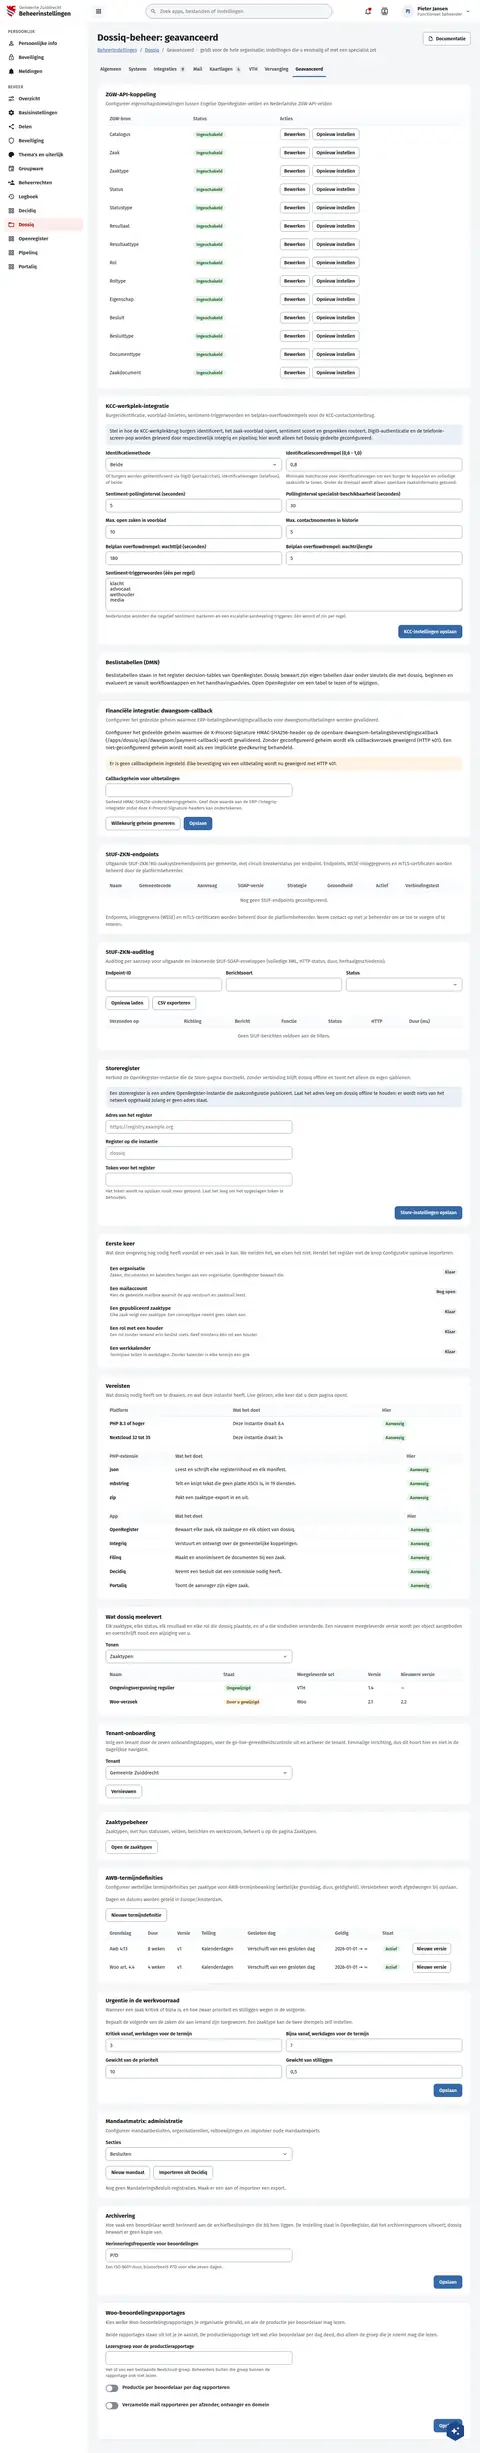
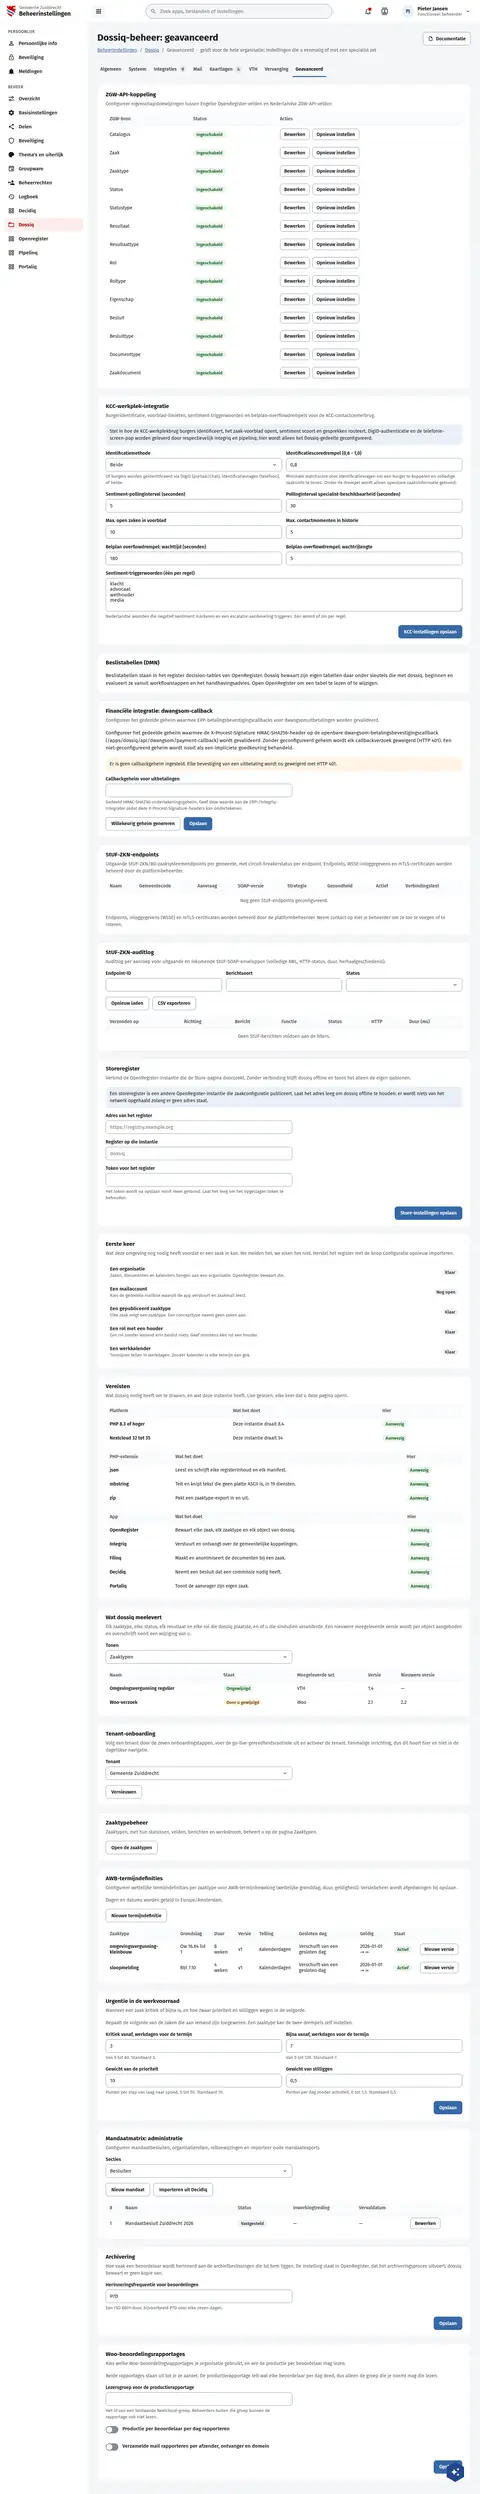
fix(screens): DqBeheerGeavanceerd draws the mandate rows, Urgentie hints and the AWB case type live shows
Assisted-by: ClaudeCode:claude-opus-5-5

diff --git a/preview/screens/boards/DqBeheerGeavanceerd.html b/preview/screens/boards/DqBeheerGeavanceerd.html
@@ -915,7 +915,7 @@ media</textarea><span style="font-size: 13px; color: var(--sc-work-muted, #5e616
                 
                 
                 
-                  <div style="overflow-x: auto"><table style="width: 100%; border-collapse: collapse; font-size: 14px"><thead><tr><th scope="col" style="text-align: left; padding: 10px 12px; font-weight: 600; color: var(--sc-work-muted, #5e6168); background: #fafbfc; border-bottom: 1px solid var(--sc-work-line, #e4e6ea); white-space: nowrap">Grondslag</th><th scope="col" style="text-align: left; padding: 10px 12px; font-weight: 600; color: var(--sc-work-muted, #5e6168); background: #fafbfc; border-bottom: 1px solid var(--sc-work-line, #e4e6ea); white-space: nowrap">Duur</th><th scope="col" style="text-align: left; padding: 10px 12px; font-weight: 600; color: var(--sc-work-muted, #5e6168); background: #fafbfc; border-bottom: 1px solid var(--sc-work-line, #e4e6ea); white-space: nowrap">Versie</th><th scope="col" style="text-align: left; padding: 10px 12px; font-weight: 600; color: var(--sc-work-muted, #5e6168); background: #fafbfc; border-bottom: 1px solid var(--sc-work-line, #e4e6ea); white-space: nowrap">Telling</th><th scope="col" style="text-align: left; padding: 10px 12px; font-weight: 600; color: var(--sc-work-muted, #5e6168); background: #fafbfc; border-bottom: 1px solid var(--sc-work-line, #e4e6ea); white-space: nowrap">Gesloten dag</th><th scope="col" style="text-align: left; padding: 10px 12px; font-weight: 600; color: var(--sc-work-muted, #5e6168); background: #fafbfc; border-bottom: 1px solid var(--sc-work-line, #e4e6ea); white-space: nowrap">Geldig</th><th scope="col" style="text-align: left; padding: 10px 12px; font-weight: 600; color: var(--sc-work-muted, #5e6168); background: #fafbfc; border-bottom: 1px solid var(--sc-work-line, #e4e6ea); white-space: nowrap">Staat</th><th scope="col" style="text-align: left; padding: 10px 12px; font-weight: 600; color: var(--sc-work-muted, #5e6168); background: #fafbfc; border-bottom: 1px solid var(--sc-work-line, #e4e6ea); white-space: nowrap"></th></tr></thead><tbody><tr><td style="padding: 10px 12px; border-bottom: 1px solid var(--sc-work-soft, #eef0f3); vertical-align: middle"><span style="">Awb 4:13</span></td><td style="padding: 10px 12px; border-bottom: 1px solid var(--sc-work-soft, #eef0f3); vertical-align: middle"><span style="">8 weken</span></td><td style="padding: 10px 12px; border-bottom: 1px solid var(--sc-work-soft, #eef0f3); vertical-align: middle"><span style="">v1</span></td><td style="padding: 10px 12px; border-bottom: 1px solid var(--sc-work-soft, #eef0f3); vertical-align: middle"><span style="">Kalenderdagen</span></td><td style="padding: 10px 12px; border-bottom: 1px solid var(--sc-work-soft, #eef0f3); vertical-align: middle"><span style="">Verschuift van een gesloten dag</span></td><td style="padding: 10px 12px; border-bottom: 1px solid var(--sc-work-soft, #eef0f3); vertical-align: middle"><span style="">2026-01-01 → ∞</span></td><td style="padding: 10px 12px; border-bottom: 1px solid var(--sc-work-soft, #eef0f3); vertical-align: middle"><span style="display: inline-block; padding: 3px 10px; border-radius: 12px; font-size: 13px; font-weight: 600; white-space: nowrap; background: #e7f3ea; color: #1e6b2a">Actief</span></td><td style="padding: 10px 12px; border-bottom: 1px solid var(--sc-work-soft, #eef0f3); vertical-align: middle"><span style="display: inline-flex; gap: 8px"><button type="button" style="display: inline-flex; align-items: center; height: 34px; box-sizing: border-box; padding: 0 12px; border-radius: 8px; font: 600 14px var(--sc-font, 'Fira Sans'), sans-serif; white-space: nowrap; border: 1px solid var(--sc-work-field, #828a95); background: #ffffff; color: var(--sc-work-ink, #1b1c1d)">Nieuwe versie</button></span></td></tr><tr><td style="padding: 10px 12px; border-bottom: 1px solid var(--sc-work-soft, #eef0f3); vertical-align: middle"><span style="">Woo art. 4.4</span></td><td style="padding: 10px 12px; border-bottom: 1px solid var(--sc-work-soft, #eef0f3); vertical-align: middle"><span style="">4 weken</span></td><td style="padding: 10px 12px; border-bottom: 1px solid var(--sc-work-soft, #eef0f3); vertical-align: middle"><span style="">v1</span></td><td style="padding: 10px 12px; border-bottom: 1px solid var(--sc-work-soft, #eef0f3); vertical-align: middle"><span style="">Kalenderdagen</span></td><td style="padding: 10px 12px; border-bottom: 1px solid var(--sc-work-soft, #eef0f3); vertical-align: middle"><span style="">Verschuift van een gesloten dag</span></td><td style="padding: 10px 12px; border-bottom: 1px solid var(--sc-work-soft, #eef0f3); vertical-align: middle"><span style="">2026-01-01 → ∞</span></td><td style="padding: 10px 12px; border-bottom: 1px solid var(--sc-work-soft, #eef0f3); vertical-align: middle"><span style="display: inline-block; padding: 3px 10px; border-radius: 12px; font-size: 13px; font-weight: 600; white-space: nowrap; background: #e7f3ea; color: #1e6b2a">Actief</span></td><td style="padding: 10px 12px; border-bottom: 1px solid var(--sc-work-soft, #eef0f3); vertical-align: middle"><span style="display: inline-flex; gap: 8px"><button type="button" style="display: inline-flex; align-items: center; height: 34px; box-sizing: border-box; padding: 0 12px; border-radius: 8px; font: 600 14px var(--sc-font, 'Fira Sans'), sans-serif; white-space: nowrap; border: 1px solid var(--sc-work-field, #828a95); background: #ffffff; color: var(--sc-work-ink, #1b1c1d)">Nieuwe versie</button></span></td></tr></tbody></table></div>
+                  <div style="overflow-x: auto"><table style="width: 100%; border-collapse: collapse; font-size: 14px"><thead><tr><th scope="col" style="text-align: left; padding: 10px 12px; font-weight: 600; color: var(--sc-work-muted, #5e6168); background: #fafbfc; border-bottom: 1px solid var(--sc-work-line, #e4e6ea); white-space: nowrap">Zaaktype</th><th scope="col" style="text-align: left; padding: 10px 12px; font-weight: 600; color: var(--sc-work-muted, #5e6168); background: #fafbfc; border-bottom: 1px solid var(--sc-work-line, #e4e6ea); white-space: nowrap">Grondslag</th><th scope="col" style="text-align: left; padding: 10px 12px; font-weight: 600; color: var(--sc-work-muted, #5e6168); background: #fafbfc; border-bottom: 1px solid var(--sc-work-line, #e4e6ea); white-space: nowrap">Duur</th><th scope="col" style="text-align: left; padding: 10px 12px; font-weight: 600; color: var(--sc-work-muted, #5e6168); background: #fafbfc; border-bottom: 1px solid var(--sc-work-line, #e4e6ea); white-space: nowrap">Versie</th><th scope="col" style="text-align: left; padding: 10px 12px; font-weight: 600; color: var(--sc-work-muted, #5e6168); background: #fafbfc; border-bottom: 1px solid var(--sc-work-line, #e4e6ea); white-space: nowrap">Telling</th><th scope="col" style="text-align: left; padding: 10px 12px; font-weight: 600; color: var(--sc-work-muted, #5e6168); background: #fafbfc; border-bottom: 1px solid var(--sc-work-line, #e4e6ea); white-space: nowrap">Gesloten dag</th><th scope="col" style="text-align: left; padding: 10px 12px; font-weight: 600; color: var(--sc-work-muted, #5e6168); background: #fafbfc; border-bottom: 1px solid var(--sc-work-line, #e4e6ea); white-space: nowrap">Geldig</th><th scope="col" style="text-align: left; padding: 10px 12px; font-weight: 600; color: var(--sc-work-muted, #5e6168); background: #fafbfc; border-bottom: 1px solid var(--sc-work-line, #e4e6ea); white-space: nowrap">Staat</th><th scope="col" style="text-align: left; padding: 10px 12px; font-weight: 600; color: var(--sc-work-muted, #5e6168); background: #fafbfc; border-bottom: 1px solid var(--sc-work-line, #e4e6ea); white-space: nowrap"></th></tr></thead><tbody><tr><td style="padding: 10px 12px; border-bottom: 1px solid var(--sc-work-soft, #eef0f3); vertical-align: middle"><span style="font-weight: 600">omgevingsvergunning-kleinbouw</span></td><td style="padding: 10px 12px; border-bottom: 1px solid var(--sc-work-soft, #eef0f3); vertical-align: middle"><span style="">Ow 16.64 lid 1</span></td><td style="padding: 10px 12px; border-bottom: 1px solid var(--sc-work-soft, #eef0f3); vertical-align: middle"><span style="">8 weken</span></td><td style="padding: 10px 12px; border-bottom: 1px solid var(--sc-work-soft, #eef0f3); vertical-align: middle"><span style="">v1</span></td><td style="padding: 10px 12px; border-bottom: 1px solid var(--sc-work-soft, #eef0f3); vertical-align: middle"><span style="">Kalenderdagen</span></td><td style="padding: 10px 12px; border-bottom: 1px solid var(--sc-work-soft, #eef0f3); vertical-align: middle"><span style="">Verschuift van een gesloten dag</span></td><td style="padding: 10px 12px; border-bottom: 1px solid var(--sc-work-soft, #eef0f3); vertical-align: middle"><span style="">2026-01-01 → ∞</span></td><td style="padding: 10px 12px; border-bottom: 1px solid var(--sc-work-soft, #eef0f3); vertical-align: middle"><span style="display: inline-block; padding: 3px 10px; border-radius: 12px; font-size: 13px; font-weight: 600; white-space: nowrap; background: #e7f3ea; color: #1e6b2a">Actief</span></td><td style="padding: 10px 12px; border-bottom: 1px solid var(--sc-work-soft, #eef0f3); vertical-align: middle"><span style="display: inline-flex; gap: 8px"><button type="button" style="display: inline-flex; align-items: center; height: 34px; box-sizing: border-box; padding: 0 12px; border-radius: 8px; font: 600 14px var(--sc-font, 'Fira Sans'), sans-serif; white-space: nowrap; border: 1px solid var(--sc-work-field, #828a95); background: #ffffff; color: var(--sc-work-ink, #1b1c1d)">Nieuwe versie</button></span></td></tr><tr><td style="padding: 10px 12px; border-bottom: 1px solid var(--sc-work-soft, #eef0f3); vertical-align: middle"><span style="font-weight: 600">sloopmelding</span></td><td style="padding: 10px 12px; border-bottom: 1px solid var(--sc-work-soft, #eef0f3); vertical-align: middle"><span style="">Bbl 7.10</span></td><td style="padding: 10px 12px; border-bottom: 1px solid var(--sc-work-soft, #eef0f3); vertical-align: middle"><span style="">4 weken</span></td><td style="padding: 10px 12px; border-bottom: 1px solid var(--sc-work-soft, #eef0f3); vertical-align: middle"><span style="">v1</span></td><td style="padding: 10px 12px; border-bottom: 1px solid var(--sc-work-soft, #eef0f3); vertical-align: middle"><span style="">Kalenderdagen</span></td><td style="padding: 10px 12px; border-bottom: 1px solid var(--sc-work-soft, #eef0f3); vertical-align: middle"><span style="">Verschuift van een gesloten dag</span></td><td style="padding: 10px 12px; border-bottom: 1px solid var(--sc-work-soft, #eef0f3); vertical-align: middle"><span style="">2026-01-01 → ∞</span></td><td style="padding: 10px 12px; border-bottom: 1px solid var(--sc-work-soft, #eef0f3); vertical-align: middle"><span style="display: inline-block; padding: 3px 10px; border-radius: 12px; font-size: 13px; font-weight: 600; white-space: nowrap; background: #e7f3ea; color: #1e6b2a">Actief</span></td><td style="padding: 10px 12px; border-bottom: 1px solid var(--sc-work-soft, #eef0f3); vertical-align: middle"><span style="display: inline-flex; gap: 8px"><button type="button" style="display: inline-flex; align-items: center; height: 34px; box-sizing: border-box; padding: 0 12px; border-radius: 8px; font: 600 14px var(--sc-font, 'Fira Sans'), sans-serif; white-space: nowrap; border: 1px solid var(--sc-work-field, #828a95); background: #ffffff; color: var(--sc-work-ink, #1b1c1d)">Nieuwe versie</button></span></td></tr></tbody></table></div>
                 
                 
                 
@@ -960,7 +960,7 @@ media</textarea><span style="font-size: 13px; color: var(--sc-work-muted, #5e616
                 
                 
                 
-                  <div style="display: flex; flex-wrap: wrap; gap: 12px"><div style="flex: 1 1 180px; min-width: 0; display: flex; flex-direction: column; gap: 6px"><span style="font-size: 14px; font-weight: 600">Kritiek vanaf, werkdagen voor de termijn</span><div style="display: flex; align-items: center; justify-content: space-between; height: 40px; box-sizing: border-box; padding: 0 12px; border: 1px solid var(--sc-work-field, #828a95); border-radius: 8px; background: #ffffff; font-size: 15px"><span style="overflow: hidden; text-overflow: ellipsis; white-space: nowrap">3</span></div></div><div style="flex: 1 1 180px; min-width: 0; display: flex; flex-direction: column; gap: 6px"><span style="font-size: 14px; font-weight: 600">Bijna vanaf, werkdagen voor de termijn</span><div style="display: flex; align-items: center; justify-content: space-between; height: 40px; box-sizing: border-box; padding: 0 12px; border: 1px solid var(--sc-work-field, #828a95); border-radius: 8px; background: #ffffff; font-size: 15px"><span style="overflow: hidden; text-overflow: ellipsis; white-space: nowrap">7</span></div></div></div>
+                  <div style="display: flex; flex-wrap: wrap; gap: 12px"><div style="flex: 1 1 180px; min-width: 0; display: flex; flex-direction: column; gap: 6px"><span style="font-size: 14px; font-weight: 600">Kritiek vanaf, werkdagen voor de termijn</span><div style="display: flex; align-items: center; justify-content: space-between; height: 40px; box-sizing: border-box; padding: 0 12px; border: 1px solid var(--sc-work-field, #828a95); border-radius: 8px; background: #ffffff; font-size: 15px"><span style="overflow: hidden; text-overflow: ellipsis; white-space: nowrap">3</span></div><span style="font-size: 13px; color: var(--sc-work-muted, #5e6168); line-height: 1.45">Van 0 tot 60. Standaard 3.</span></div><div style="flex: 1 1 180px; min-width: 0; display: flex; flex-direction: column; gap: 6px"><span style="font-size: 14px; font-weight: 600">Bijna vanaf, werkdagen voor de termijn</span><div style="display: flex; align-items: center; justify-content: space-between; height: 40px; box-sizing: border-box; padding: 0 12px; border: 1px solid var(--sc-work-field, #828a95); border-radius: 8px; background: #ffffff; font-size: 15px"><span style="overflow: hidden; text-overflow: ellipsis; white-space: nowrap">7</span></div><span style="font-size: 13px; color: var(--sc-work-muted, #5e6168); line-height: 1.45">Van 0 tot 120. Standaard 7.</span></div></div>
                 
                 
                 
@@ -981,7 +981,7 @@ media</textarea><span style="font-size: 13px; color: var(--sc-work-muted, #5e616
                 
                 
                 
-                  <div style="display: flex; flex-wrap: wrap; gap: 12px"><div style="flex: 1 1 180px; min-width: 0; display: flex; flex-direction: column; gap: 6px"><span style="font-size: 14px; font-weight: 600">Gewicht van de prioriteit</span><div style="display: flex; align-items: center; justify-content: space-between; height: 40px; box-sizing: border-box; padding: 0 12px; border: 1px solid var(--sc-work-field, #828a95); border-radius: 8px; background: #ffffff; font-size: 15px"><span style="overflow: hidden; text-overflow: ellipsis; white-space: nowrap">10</span></div></div><div style="flex: 1 1 180px; min-width: 0; display: flex; flex-direction: column; gap: 6px"><span style="font-size: 14px; font-weight: 600">Gewicht van stilliggen</span><div style="display: flex; align-items: center; justify-content: space-between; height: 40px; box-sizing: border-box; padding: 0 12px; border: 1px solid var(--sc-work-field, #828a95); border-radius: 8px; background: #ffffff; font-size: 15px"><span style="overflow: hidden; text-overflow: ellipsis; white-space: nowrap">0,5</span></div></div></div>
+                  <div style="display: flex; flex-wrap: wrap; gap: 12px"><div style="flex: 1 1 180px; min-width: 0; display: flex; flex-direction: column; gap: 6px"><span style="font-size: 14px; font-weight: 600">Gewicht van de prioriteit</span><div style="display: flex; align-items: center; justify-content: space-between; height: 40px; box-sizing: border-box; padding: 0 12px; border: 1px solid var(--sc-work-field, #828a95); border-radius: 8px; background: #ffffff; font-size: 15px"><span style="overflow: hidden; text-overflow: ellipsis; white-space: nowrap">10</span></div><span style="font-size: 13px; color: var(--sc-work-muted, #5e6168); line-height: 1.45">Punten per stap van laag naar spoed, 0 tot 50. Standaard 10.</span></div><div style="flex: 1 1 180px; min-width: 0; display: flex; flex-direction: column; gap: 6px"><span style="font-size: 14px; font-weight: 600">Gewicht van stilliggen</span><div style="display: flex; align-items: center; justify-content: space-between; height: 40px; box-sizing: border-box; padding: 0 12px; border: 1px solid var(--sc-work-field, #828a95); border-radius: 8px; background: #ffffff; font-size: 15px"><span style="overflow: hidden; text-overflow: ellipsis; white-space: nowrap">0,5</span></div><span style="font-size: 13px; color: var(--sc-work-muted, #5e6168); line-height: 1.45">Punten per dag zonder activiteit, 0 tot 1,5. Standaard 0,5.</span></div></div>
                 
                 
                 
@@ -1078,12 +1078,12 @@ media</textarea><span style="font-size: 13px; color: var(--sc-work-muted, #5e616
                 
                 
                 
+                  <div style="overflow-x: auto"><table style="width: 100%; border-collapse: collapse; font-size: 14px"><thead><tr><th scope="col" style="text-align: left; padding: 10px 12px; font-weight: 600; color: var(--sc-work-muted, #5e6168); background: #fafbfc; border-bottom: 1px solid var(--sc-work-line, #e4e6ea); white-space: nowrap">#</th><th scope="col" style="text-align: left; padding: 10px 12px; font-weight: 600; color: var(--sc-work-muted, #5e6168); background: #fafbfc; border-bottom: 1px solid var(--sc-work-line, #e4e6ea); white-space: nowrap">Naam</th><th scope="col" style="text-align: left; padding: 10px 12px; font-weight: 600; color: var(--sc-work-muted, #5e6168); background: #fafbfc; border-bottom: 1px solid var(--sc-work-line, #e4e6ea); white-space: nowrap">Status</th><th scope="col" style="text-align: left; padding: 10px 12px; font-weight: 600; color: var(--sc-work-muted, #5e6168); background: #fafbfc; border-bottom: 1px solid var(--sc-work-line, #e4e6ea); white-space: nowrap">Inwerkingtreding</th><th scope="col" style="text-align: left; padding: 10px 12px; font-weight: 600; color: var(--sc-work-muted, #5e6168); background: #fafbfc; border-bottom: 1px solid var(--sc-work-line, #e4e6ea); white-space: nowrap">Vervaldatum</th><th scope="col" style="text-align: left; padding: 10px 12px; font-weight: 600; color: var(--sc-work-muted, #5e6168); background: #fafbfc; border-bottom: 1px solid var(--sc-work-line, #e4e6ea); white-space: nowrap"></th></tr></thead><tbody><tr><td style="padding: 10px 12px; border-bottom: 1px solid var(--sc-work-soft, #eef0f3); vertical-align: middle"><span style="">1</span></td><td style="padding: 10px 12px; border-bottom: 1px solid var(--sc-work-soft, #eef0f3); vertical-align: middle"><span style="">Mandaatbesluit Zuiddrecht 2026</span></td><td style="padding: 10px 12px; border-bottom: 1px solid var(--sc-work-soft, #eef0f3); vertical-align: middle"><span style="display: inline-block; padding: 3px 10px; border-radius: 12px; font-size: 13px; font-weight: 600; white-space: nowrap; background: var(--sc-work-soft, #eef0f3); color: var(--sc-work-text, #3d4047)">Vastgesteld</span></td><td style="padding: 10px 12px; border-bottom: 1px solid var(--sc-work-soft, #eef0f3); vertical-align: middle"><span style="">—</span></td><td style="padding: 10px 12px; border-bottom: 1px solid var(--sc-work-soft, #eef0f3); vertical-align: middle"><span style="">—</span></td><td style="padding: 10px 12px; border-bottom: 1px solid var(--sc-work-soft, #eef0f3); vertical-align: middle"><span style="display: inline-flex; gap: 8px"><button type="button" style="display: inline-flex; align-items: center; height: 34px; box-sizing: border-box; padding: 0 12px; border-radius: 8px; font: 600 14px var(--sc-font, 'Fira Sans'), sans-serif; white-space: nowrap; border: 1px solid var(--sc-work-field, #828a95); background: #ffffff; color: var(--sc-work-ink, #1b1c1d)">Bewerken</button></span></td></tr></tbody></table></div>
                 
                 
                 
                 
                 
-                  <p style="margin: 0; padding: 10px 12px; border-radius: 8px; font-size: 14px; line-height: 1.5; padding: 0; color: var(--sc-work-muted, #5e6168)">Nog geen MandateringsBesluit-registraties. Maak er een aan of importeer een export.</p>
                 
                 
               

diff --git a/screens-src/zuiddrecht/DqBeheerGeavanceerd.dc.html b/screens-src/zuiddrecht/DqBeheerGeavanceerd.dc.html
@@ -106,21 +106,23 @@ class Component extends DCLogic {
       { name: 'AWB-termijndefinities', desc: 'Configureer wettelijke termijndefinities per zaaktype voor AWB-termijnbewaking (wettelijke grondslag, duur, geldigheid). Versiebeheer wordt afgedwongen bij opslaan.', rows: [
         { note: 'Dagen en datums worden geteld in Europe/Amsterdam.', tone: 'plain' },
         { buttons: [['Nieuwe termijndefinitie', '']] },
-        { table: ['Grondslag', 'Duur', 'Versie', 'Telling', 'Gesloten dag', 'Geldig', 'Staat', ''], lines: [
-          ['Awb 4:13', '8 weken', 'v1', 'Kalenderdagen', 'Verschuift van een gesloten dag', '2026-01-01 → ∞', { pill: 'Actief', tone: 'success' }, { buttons: [['Nieuwe versie', '']] }],
-          ['Woo art. 4.4', '4 weken', 'v1', 'Kalenderdagen', 'Verschuift van een gesloten dag', '2026-01-01 → ∞', { pill: 'Actief', tone: 'success' }, { buttons: [['Nieuwe versie', '']] }]
+        { table: ['Zaaktype', 'Grondslag', 'Duur', 'Versie', 'Telling', 'Gesloten dag', 'Geldig', 'Staat', ''], lines: [
+          [{ strong: 'omgevingsvergunning-kleinbouw' }, 'Ow 16.64 lid 1', '8 weken', 'v1', 'Kalenderdagen', 'Verschuift van een gesloten dag', '2026-01-01 → ∞', { pill: 'Actief', tone: 'success' }, { buttons: [['Nieuwe versie', '']] }],
+          [{ strong: 'sloopmelding' }, 'Bbl 7.10', '4 weken', 'v1', 'Kalenderdagen', 'Verschuift van een gesloten dag', '2026-01-01 → ∞', { pill: 'Actief', tone: 'success' }, { buttons: [['Nieuwe versie', '']] }]
         ] }
       ] },
       { name: 'Urgentie in de werkvoorraad', desc: 'Wanneer een zaak kritiek of bijna is, en hoe zwaar prioriteit en stilliggen wegen in de volgorde.', rows: [
         { note: 'Bepaalt de volgorde van de zaken die aan iemand zijn toegewezen. Een zaaktype kan de twee drempels zelf instellen.', tone: 'plain' },
-        { pair: [{ label: 'Kritiek vanaf, werkdagen voor de termijn', value: '3' }, { label: 'Bijna vanaf, werkdagen voor de termijn', value: '7' }] },
-        { pair: [{ label: 'Gewicht van de prioriteit', value: '10' }, { label: 'Gewicht van stilliggen', value: '0,5' }] },
+        { pair: [{ label: 'Kritiek vanaf, werkdagen voor de termijn', value: '3', hint: 'Van 0 tot 60. Standaard 3.' }, { label: 'Bijna vanaf, werkdagen voor de termijn', value: '7', hint: 'Van 0 tot 120. Standaard 7.' }] },
+        { pair: [{ label: 'Gewicht van de prioriteit', value: '10', hint: 'Punten per stap van laag naar spoed, 0 tot 50. Standaard 10.' }, { label: 'Gewicht van stilliggen', value: '0,5', hint: 'Punten per dag zonder activiteit, 0 tot 1,5. Standaard 0,5.' }] },
         { buttons: [['Opslaan', 'primary']] }
       ] },
       { name: 'Mandaatmatrix: administratie', desc: 'Configureer mandaatbesluiten, organisatierollen, roltoewijzingen en importeer oude mandaatexports', rows: [
         { select: 'Secties', value: 'Besluiten' },
         { buttons: [['Nieuw mandaat', ''], ['Importeren uit Decidiq', '']] },
-        { note: 'Nog geen MandateringsBesluit-registraties. Maak er een aan of importeer een export.', tone: 'plain' }
+        { table: ['#', 'Naam', 'Status', 'Inwerkingtreding', 'Vervaldatum', ''], lines: [
+          ['1', 'Mandaatbesluit Zuiddrecht 2026', { pill: 'Vastgesteld' }, '—', '—', { buttons: [['Bewerken', '']] }]
+        ] }
       ] },
       { name: 'Archivering', desc: 'Hoe vaak een beoordelaar wordt herinnerd aan de archiefbeslissingen die bij hem liggen. De instelling staat in OpenRegister, dat het archiveringsproces uitvoert; dossiq bewaart er geen kopie van.', rows: [
         { text: 'Herinneringsfrequentie voor beoordelingen', value: 'P7D', hint: 'Een ISO 8601-duur, bijvoorbeeld P7D voor elke zeven dagen.' },
